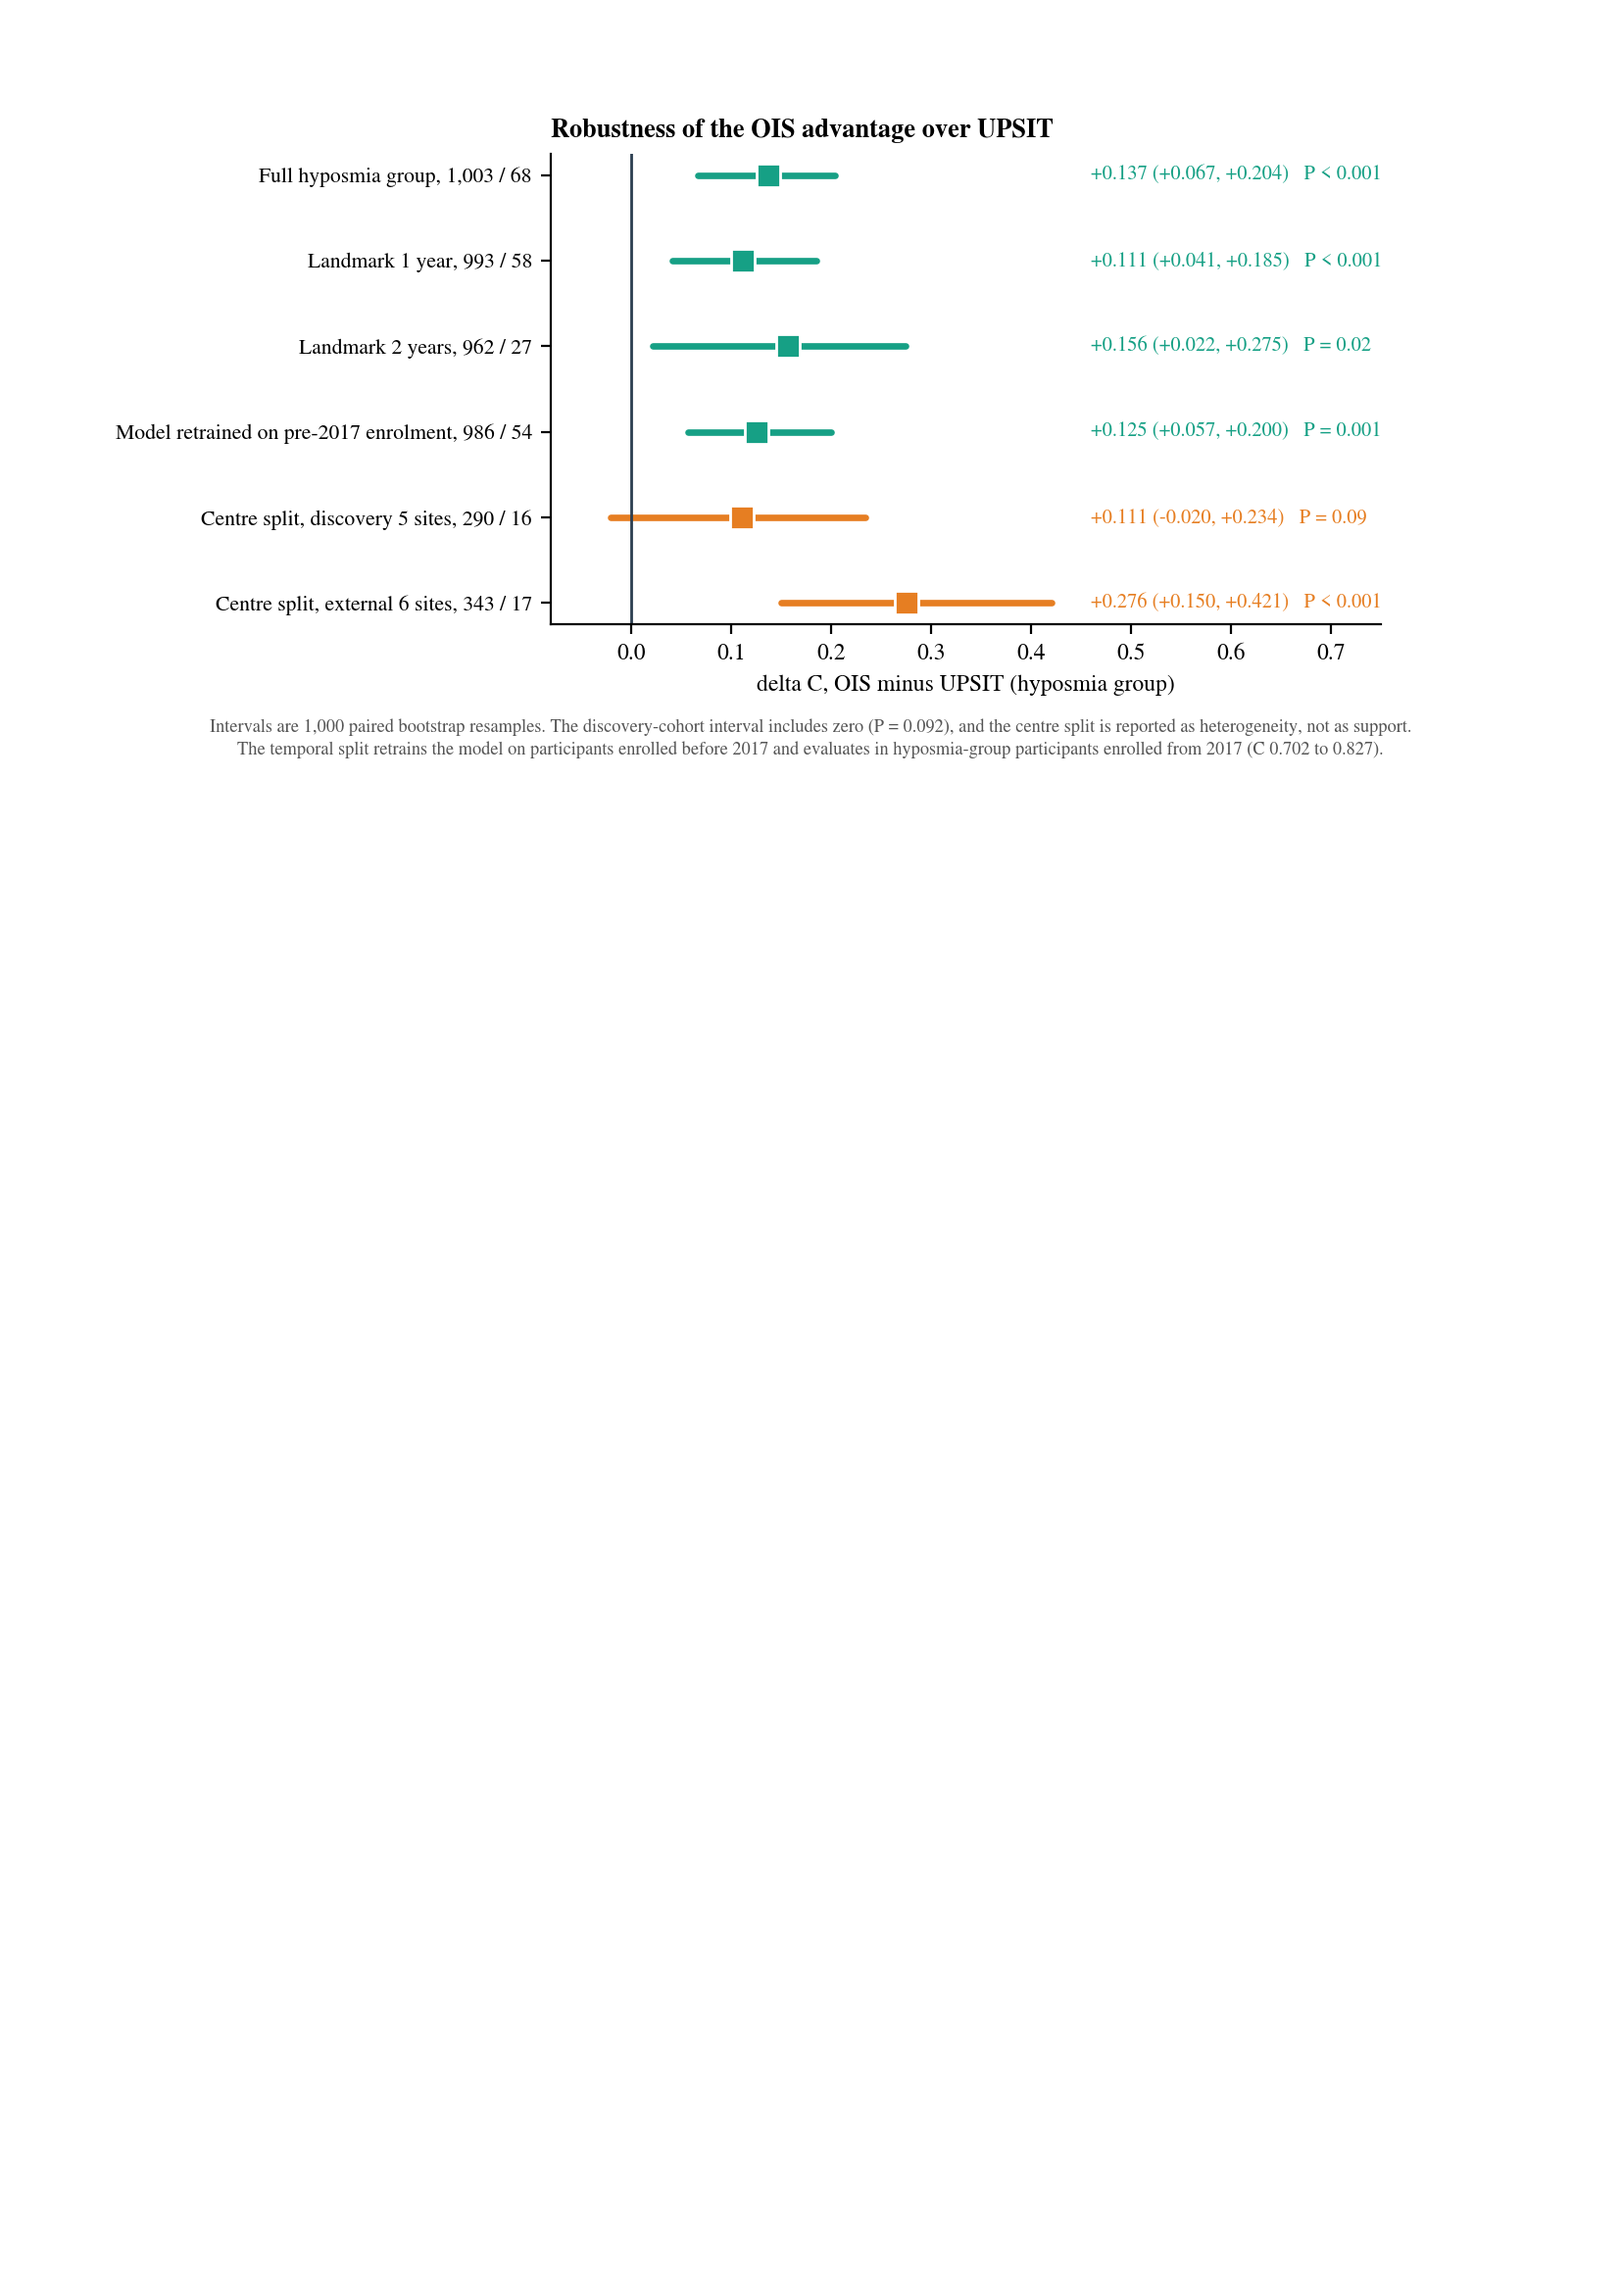
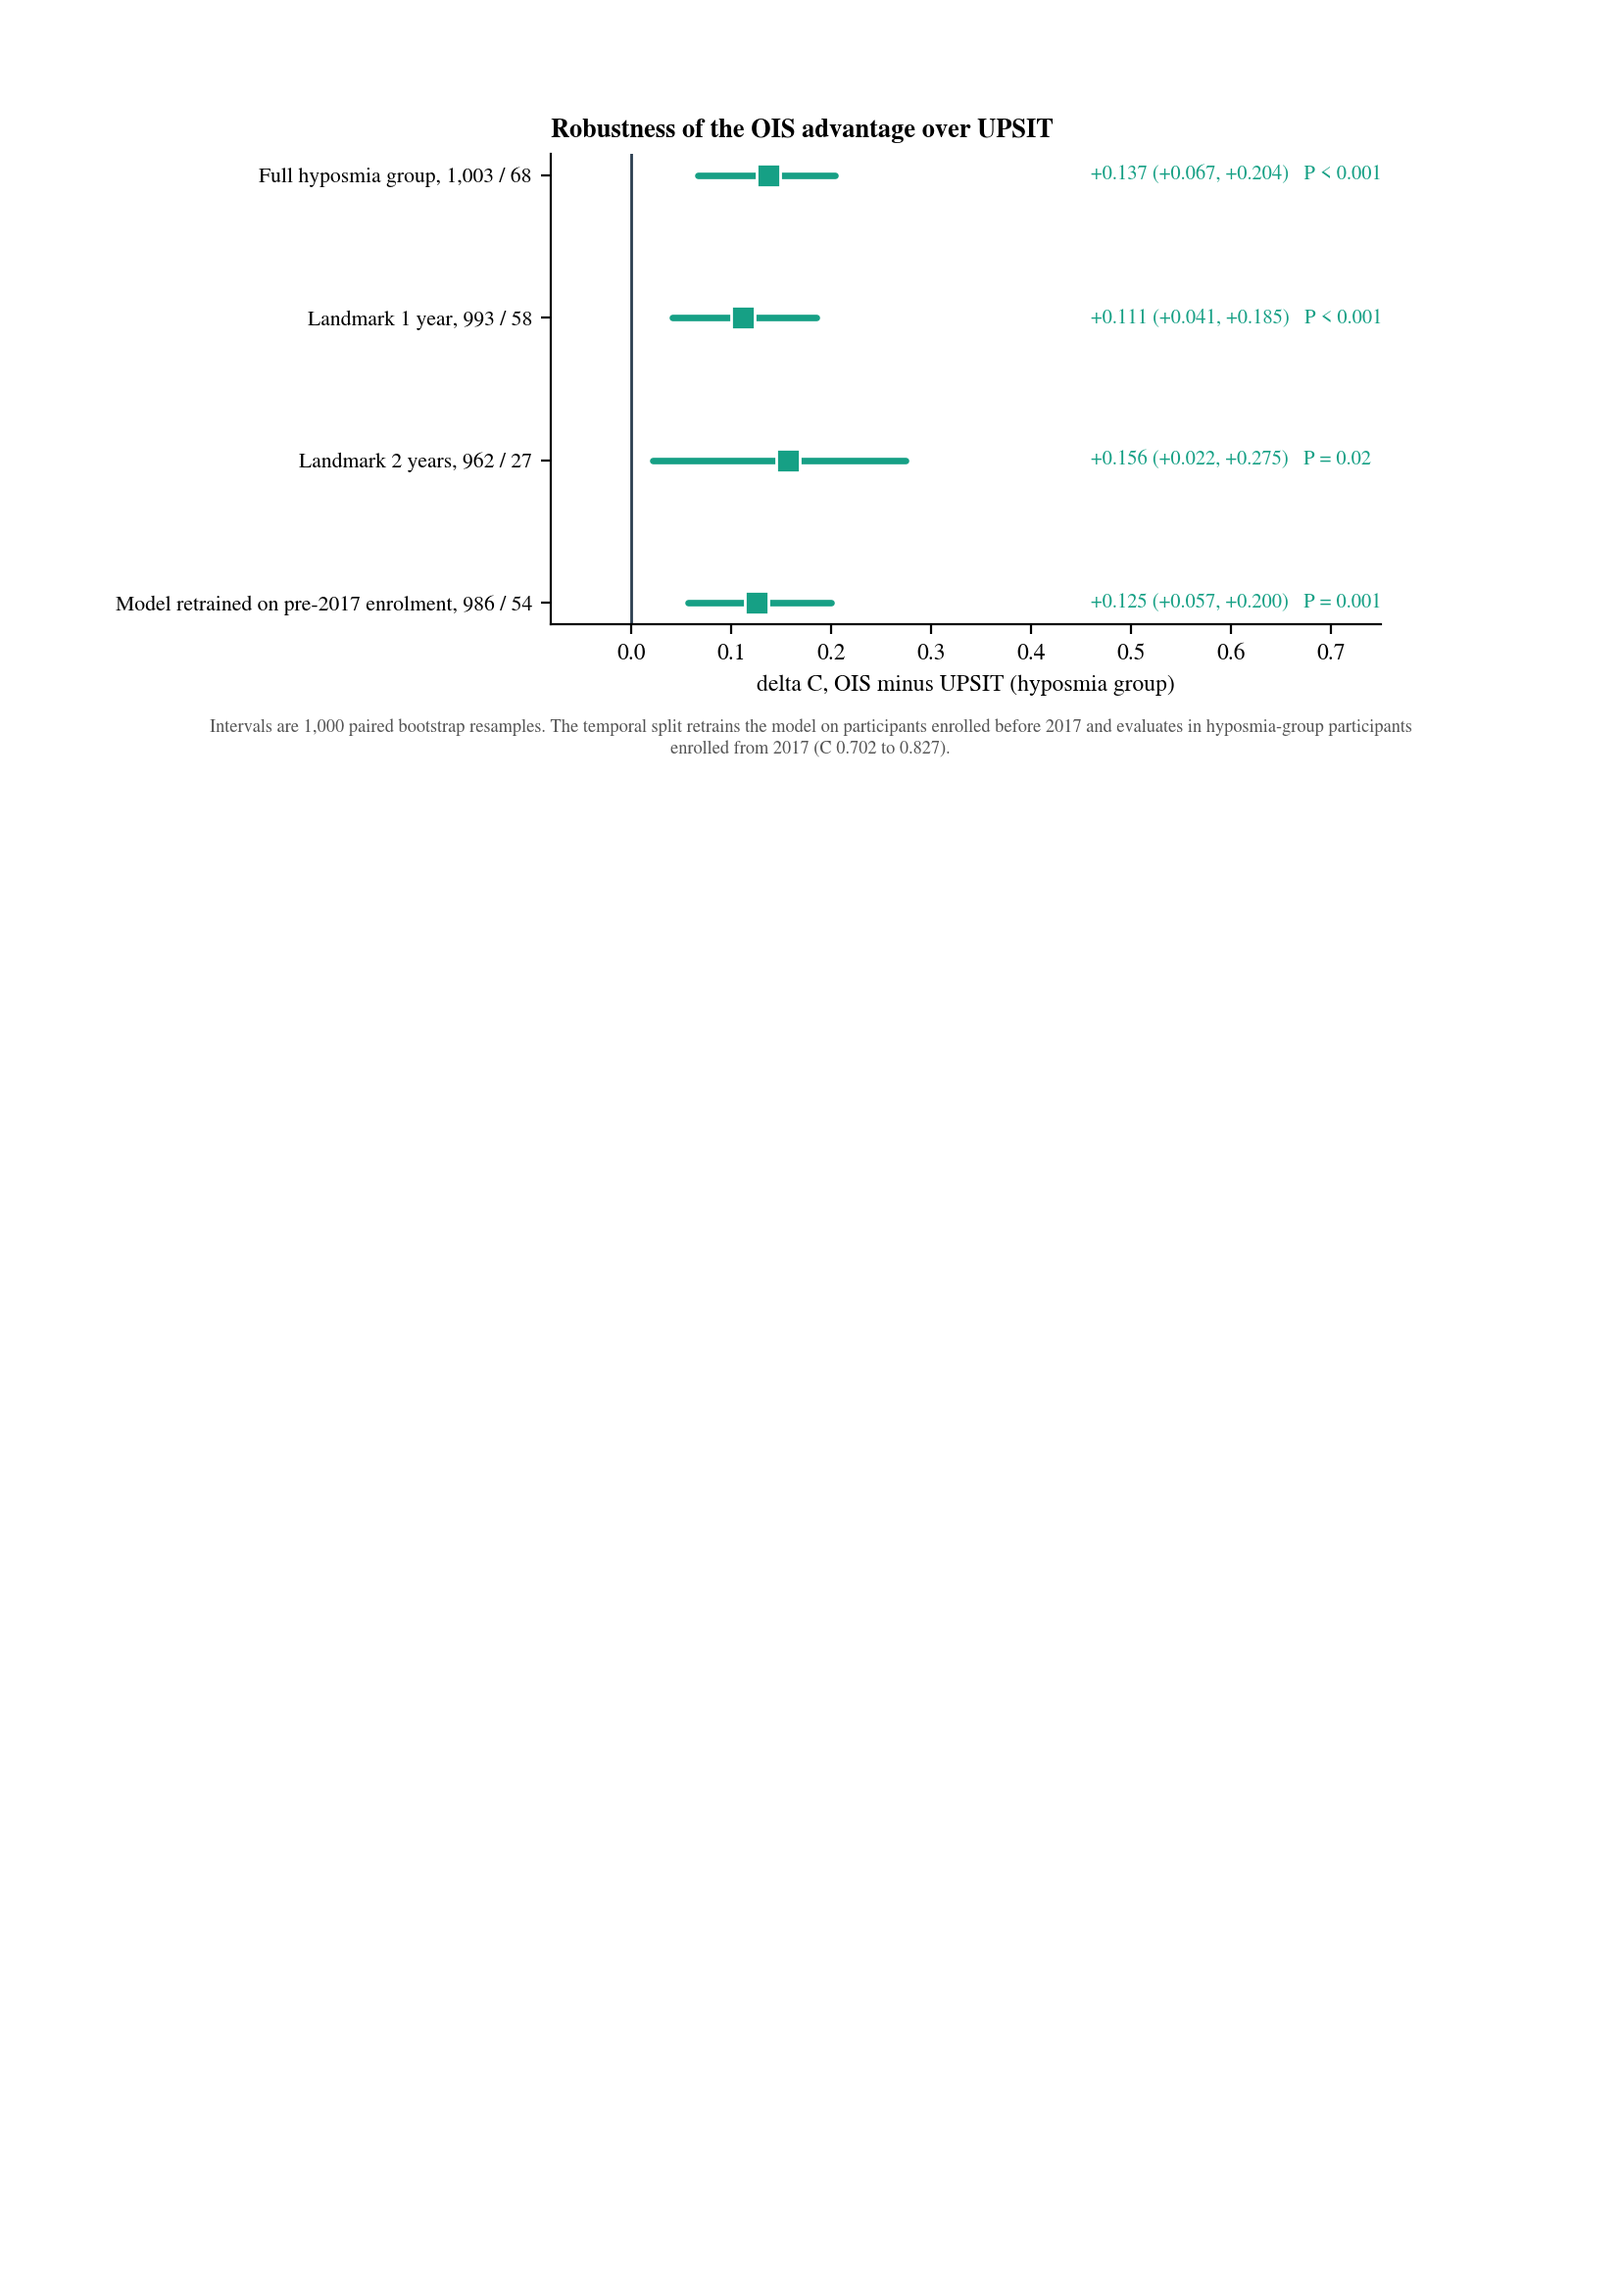
Drop the centre split from Supplementary Fig 3 and source data

diff --git a/code/10_supplementary.py b/code/10_supplementary.py
@@ -243,9 +243,7 @@ def figS3_robustness():
     rows = [(T('Full hyposmia group, 1,003 / 68', '全嗅觉减退组,1,003 / 68'), L[0]['dc'], L[0]['lo'], L[0]['hi'], pf(L[0]['p']), TEAL),
             (T('Landmark 1 year, 993 / 58', '1 年 landmark,993 / 58'), L[1]['dc'], L[1]['lo'], L[1]['hi'], pf(L[1]['p']), TEAL),
             (T('Landmark 2 years, 962 / 27', '2 年 landmark,962 / 27'), L[2]['dc'], L[2]['lo'], L[2]['hi'], pf(L[2]['p']), TEAL),
-            (T(f'Model retrained on pre-2017 enrolment, {TS["n"]:,} / {TS["events"]}', f'模型改用 2017 年前入组者重训,{TS["n"]:,} / {TS["events"]}'), TS['dc'], TS['lo'], TS['hi'], pf(TS['p']), TEAL),
-            (T('Centre split, discovery 5 sites, 290 / 16', '中心拆分,发现 5 中心,290 / 16'), CENTRE['discovery']['dc'], CENTRE['discovery']['lo'], CENTRE['discovery']['hi'], pf(CENTRE['discovery']['p']), ORANGE),
-            (T('Centre split, external 6 sites, 343 / 17', '中心拆分,外部 6 中心,343 / 17'), CENTRE['external']['dc'], CENTRE['external']['lo'], CENTRE['external']['hi'], pf(CENTRE['external']['p']), ORANGE)]
+            (T(f'Model retrained on pre-2017 enrolment, {TS["n"]:,} / {TS["events"]}', f'模型改用 2017 年前入组者重训,{TS["n"]:,} / {TS["events"]}'), TS['dc'], TS['lo'], TS['hi'], pf(TS['p']), TEAL)]
     fig, ax = a4_subplots(1, 1, 8.4, 3.6); y = np.arange(len(rows))[::-1]
     ax.get_gridspec().update(left=.34)                      # room for the long row labels on the page
     for yi, (lab, d, lo, hi, p, col) in zip(y, rows):
@@ -257,9 +255,8 @@ def figS3_robustness():
     ax.axvline(0, c=DARK, lw=1); ax.set_yticks(y); ax.set_yticklabels([r[0] for r in rows], fontsize=7.8)
     ax.set_xlim(-.08, .75); ax.set_xlabel(T('ΔC, OIS minus UPSIT (hyposmia group)', 'ΔC,OIS 减 UPSIT 总分(嗅觉减退组)'))
     ax.set_title(T('Robustness of the OIS advantage over UPSIT', 'OIS 相对 UPSIT 优势的稳健性'), loc='left', fontsize=9.5, fontweight='bold')
-    footnote(fig, T('Intervals are 1,000 paired bootstrap resamples. The discovery-cohort interval includes zero (P = 0.092), and the centre split is reported as heterogeneity, not as support. '
-                       'The temporal split retrains the model on participants enrolled before 2017 and evaluates in hyposmia-group participants enrolled from 2017 (C 0.702 to 0.827).',
-                       '区间为 1,000 次配对 bootstrap。发现队列区间含零(P = 0.092),中心拆分作为异质性报告而非支持性证据。时间拆分在 2017 年前入组者上重训模型,在 2017 年起入组的嗅觉减退组评价(C 0.702 至 0.827)。'),
+    footnote(fig, T('Intervals are 1,000 paired bootstrap resamples. The temporal split retrains the model on participants enrolled before 2017 and evaluates in hyposmia-group participants enrolled from 2017 (C 0.702 to 0.827).',
+                       '区间为 1,000 次配对 bootstrap。时间拆分在 2017 年前入组者上重训模型,在 2017 年起入组的嗅觉减退组评价(C 0.702 至 0.827)。')
             )
     save(fig, 'FigS3_robustness')
 
@@ -647,8 +644,8 @@ def build_doc(chan_slopes):
     A(T('**Supplementary Fig. 2 | Calibration of OIS in the prodromal cohort.** **a**, Mean observed against mean predicted UPSIT by decile of OIS in the RBD and variant-carrier group (n = 885). Observed lies below predicted in every decile by about 2.7 points, which is the mean residual of that group. **b**, Slope of measured UPSIT on OIS, with its 95% CI, r, P and n, in the whole prodromal cohort, the hyposmia cohort and each of the two recruitment cohorts of the RBD and variant-carrier group separately. The pooled slope of the RBD and variant-carrier group (1.027) is omitted because it mixes two recruitment cohorts with different means. The within-recruitment cohort values are the interpretable ones.',
         '**补充图 2 | OIS 在前驱期的校准。**(a) RBD 与遗传携带组(n = 885)按 OIS 十分位的平均实测对平均预测 UPSIT;每个十分位实测均低于预测约 2.7 分,即该组的平均残差。(b) 全前驱期、嗅觉减退队列以及RBD 与遗传携带组的两个队列分别的实测 UPSIT 对 OIS 的斜率及其 95% CI,附 r、P 与 n。省略RBD 与遗传携带组合并斜率 1.027,它出自均值不同的两个队列混合;队列内的值才可信。'))
     A(f'![FigS2]({d}/FigS2_calibration.png)')
-    A(T('**Supplementary Fig. 3 | Robustness of the advantage of OIS over UPSIT in the hyposmia group.** ΔC with 1,000-resample paired bootstrap intervals for the full group, the one- and two-year landmarks (participants converting before the landmark removed), the temporal split (model retrained on participants enrolled before 2017 and evaluated in hyposmia-group participants enrolled from 2017, point estimate only) and the two halves of the centre split (discovery, 5 centres, and external, 6 centres). The discovery interval includes zero. The centre split is presented as heterogeneity and not as support.',
-        '**补充图 3 | 嗅觉减退组中 OIS 相对 UPSIT 优势的稳健性。**ΔC 及 1,000 次配对 bootstrap 区间:全组、1 年与 2 年 landmark(剔除 landmark 前转化者)、时间拆分(在 2017 年前入组者上重训模型,在 2017 年起入组的嗅觉减退组评价,仅点估计)以及中心拆分的两半(发现 5 中心;外部 6 中心)。发现队列区间含零;中心拆分作为异质性呈现而非支持性证据。'))
+    A(T('**Supplementary Fig. 3 | Robustness of the advantage of OIS over UPSIT in the hyposmia group.** ΔC with 1,000-resample paired bootstrap intervals for the full group, the one- and two-year landmarks (participants converting before the landmark removed), the temporal split (model retrained on participants enrolled before 2017 and evaluated in hyposmia-group participants enrolled from 2017, point estimate only).',
+        '**补充图 3 | 嗅觉减退组中 OIS 相对 UPSIT 优势的稳健性。**ΔC 及 1,000 次配对 bootstrap 区间:全组、1 年与 2 年 landmark(剔除 landmark 前转化者)、时间拆分(在 2017 年前入组者上重训模型,在 2017 年起入组的嗅觉减退组评价,仅点估计)。'))
     A(f'![FigS3]({d}/FigS3_robustness.png)')
     A(T('**Supplementary Fig. 4 | Kaplan–Meier curves by OIS tertile, with 95% confidence bands and pairwise log-rank P values.** **a**, Whole hyposmia group. **b**, Non-deficit stratum. In both populations the middle and highest tertiles do not differ (P = 0.42 and P = 0.09), so the main text divides at the median into a high-risk lower half and a low-risk upper half (Fig. 3c, e).',
         '**补充图 4 | 按 OIS 三分位的 Kaplan–Meier 曲线,含 95% 置信带与两两 log-rank P。**(a) 全嗅觉减退组。(b) 非缺损亚组。两个人群中中间与最高三分位均不分开(P = 0.42 与 P = 0.09),因此正文按中位数分为高危的低半与低危的高半(Fig 3c、e)。'))

diff --git a/code/11_source_data.py b/code/11_source_data.py
@@ -186,9 +186,7 @@ L = {r['landmark_yr']: r for r in J['landmark']}; TS = J['temporal_split']; CE =
 rows = [dict(analysis='Full hyposmia group', n=L[0]['n'], events=L[0]['events'], delta_C=L[0]['dc'], ci_lower=L[0]['lo'], ci_upper=L[0]['hi'], p=L[0]['p']),
         dict(analysis='Landmark 1 year', n=L[1]['n'], events=L[1]['events'], delta_C=L[1]['dc'], ci_lower=L[1]['lo'], ci_upper=L[1]['hi'], p=L[1]['p']),
         dict(analysis='Landmark 2 years', n=L[2]['n'], events=L[2]['events'], delta_C=L[2]['dc'], ci_lower=L[2]['lo'], ci_upper=L[2]['hi'], p=L[2]['p']),
-        dict(analysis='Model retrained on pre-2017 enrolment', n=TS['n'], events=TS['events'], delta_C=TS['dc'], ci_lower=TS['lo'], ci_upper=TS['hi'], p=TS['p']),
-        dict(analysis='Centre split, discovery 5 sites', n=CE['discovery']['n_hyp'], events=CE['discovery']['ev_hyp'], delta_C=CE['discovery']['dc'], ci_lower=CE['discovery']['lo'], ci_upper=CE['discovery']['hi'], p=CE['discovery']['p']),
-        dict(analysis='Centre split, external 6 sites', n=CE['external']['n_hyp'], events=CE['external']['ev_hyp'], delta_C=CE['external']['dc'], ci_lower=CE['external']['lo'], ci_upper=CE['external']['hi'], p=CE['external']['p'])]
+        dict(analysis='Model retrained on pre-2017 enrolment', n=TS['n'], events=TS['events'], delta_C=TS['dc'], ci_lower=TS['lo'], ci_upper=TS['hi'], p=TS['p'])]
 add('FigS3', pd.DataFrame(rows), 'Delta C (OIS minus UPSIT) with 95% CI from 1,000 paired bootstrap resamples. P of 0 means below 1/1000.')
 
 

diff --git a/Supplementary_Information_EN.md b/Supplementary_Information_EN.md
@@ -451,7 +451,7 @@ Age is absorbed in the training cohorts but not in the applied prodromal cohort,
 
 ![FigS2](figures/Supplementary/FigS2_calibration.png)
 
-**Supplementary Fig. 3 | Robustness of the advantage of OIS over UPSIT in the hyposmia group.** ΔC with 1,000-resample paired bootstrap intervals for the full group, the one- and two-year landmarks (participants converting before the landmark removed), the temporal split (model retrained on participants enrolled before 2017 and evaluated in hyposmia-group participants enrolled from 2017, point estimate only) and the two halves of the centre split (discovery, 5 centres, and external, 6 centres). The discovery interval includes zero. The centre split is presented as heterogeneity and not as support.
+**Supplementary Fig. 3 | Robustness of the advantage of OIS over UPSIT in the hyposmia group.** ΔC with 1,000-resample paired bootstrap intervals for the full group, the one- and two-year landmarks (participants converting before the landmark removed), the temporal split (model retrained on participants enrolled before 2017 and evaluated in hyposmia-group participants enrolled from 2017, point estimate only).
 
 ![FigS3](figures/Supplementary/FigS3_robustness.png)
 
